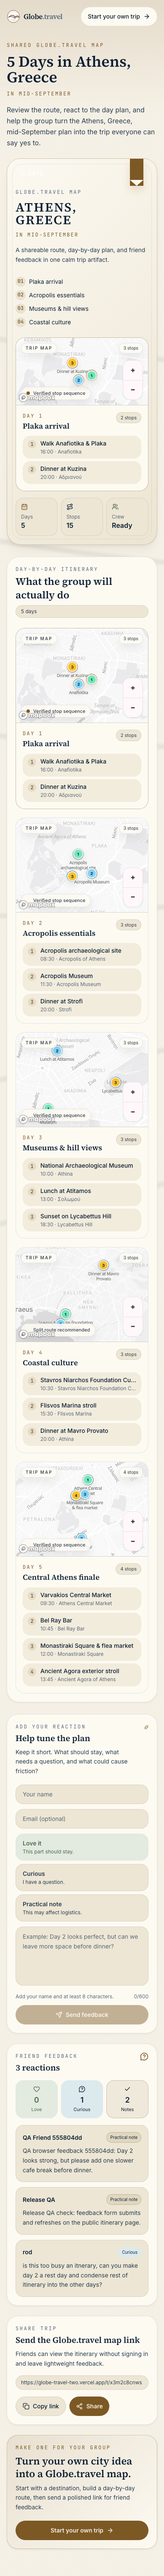
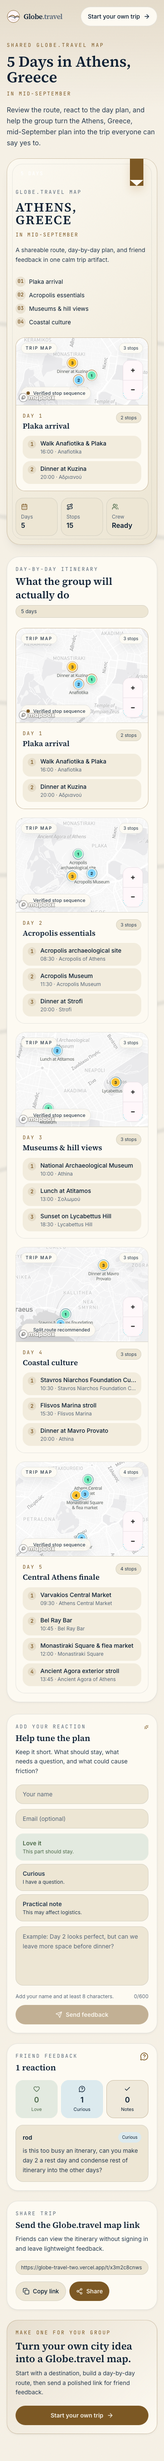
Guard public shares against QA feedback debris

Changed region(s): [[0.0308, 0.0, 0.9231, 0.9993]]

diff --git a/qa/public-share-map-itinerary-integrity-2026-05-23.md b/qa/public-share-map-itinerary-integrity-2026-05-23.md
@@ -17,6 +17,10 @@ Base URL: https://globe-travel-two.vercel.app
 | --- | --- | --- | ---: | --- | ---: |
 | x3m2c8cnws | Pass | 5 Days in Athens Greece in mid september | 5 | Greece | 2 |
 
+## Feedback Cleanliness
+
+- x3m2c8cnws: 1 visible reaction(s), 0 internal QA row(s)
+
 ## Failures
 
 - none
